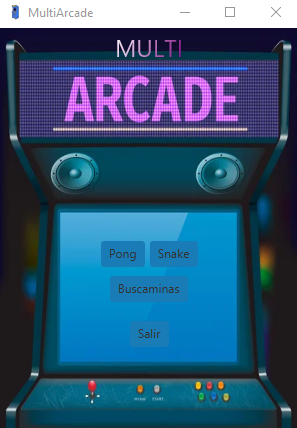
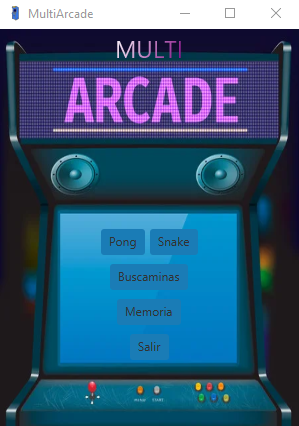
Juego Memoria Añadido
Se añade el juego memoria, con sus correspondientes ficheros y se edita el README

diff --git a/src/main/java/dad/multiarcade/memoria/controller/MemoriaController.java b/src/main/java/dad/multiarcade/memoria/controller/MemoriaController.java
@@ -1,0 +1,217 @@
+package dad.multiarcade.memoria.controller;
+
+import java.io.IOException;
+import java.net.URL;
+import java.util.ArrayList;
+import java.util.Collections;
+import java.util.ResourceBundle;
+
+import javafx.event.EventHandler;
+import javafx.fxml.FXML;
+import javafx.fxml.FXMLLoader;
+import javafx.fxml.Initializable;
+import javafx.scene.Scene;
+import javafx.scene.image.Image;
+import javafx.scene.input.KeyCode;
+import javafx.scene.input.KeyEvent;
+import javafx.scene.layout.AnchorPane;
+import javafx.stage.Stage;
+import javafx.stage.WindowEvent;
+import dad.multiarcade.memoria.model.Imagen;
+
+public class MemoriaController implements Initializable {
+
+	@FXML
+	private AnchorPane root;
+
+	private static final int WIDTH = 800;
+	private static final int HEIGHT = 800;
+	private static final int CARD_SIZE = 200;
+
+	private static final int NUM_X_CARDS = WIDTH / CARD_SIZE;
+	private static final int NUM_Y_CARDS = HEIGHT / CARD_SIZE;
+
+	private static final int NUM_CARDS = NUM_X_CARDS * NUM_Y_CARDS;
+	private static final int NUM_OF_PAIRS = NUM_CARDS / 2;
+
+	static ArrayList<Imagen> imagenes = new ArrayList<Imagen>();
+	static ArrayList<Imagen> imagenes2 = new ArrayList<Imagen>();
+
+	private static Imagen segundaImagen;
+	static int NUM_CLICKS = 2;
+	Stage stage;
+
+	public MemoriaController() throws IOException {
+		FXMLLoader loader = new FXMLLoader(getClass().getResource("/fxml/MemoriaView.fxml"));
+		loader.setController(this);
+		loader.load();
+	}
+
+	@Override
+	public void initialize(URL location, ResourceBundle resources) {
+		iniciar();
+
+		stage = new Stage();
+		stage.addEventFilter(KeyEvent.KEY_PRESSED, key -> {
+			if (key.getCode() == KeyCode.N) {
+				reset();
+			}
+		});
+		stage.setTitle("Memoria");
+		stage.setScene(new Scene(getRoot()));
+		stage.setResizable(false);
+		stage.getIcons().add(new Image("/img/memoria_logo.png"));
+		stage.setOnCloseRequest(new EventHandler<WindowEvent>() {
+			@Override
+			public void handle(WindowEvent t) {
+				reset();
+
+			}
+		});
+	}
+
+	public void shuffle() {
+
+		Collections.shuffle(imagenes);
+
+		for (int i = 0; i < imagenes.size(); i++) {
+			imagenes.get(i).setTranslateX(CARD_SIZE * (i % NUM_X_CARDS));
+			imagenes.get(i).setTranslateY(CARD_SIZE * (i / NUM_Y_CARDS));
+			root.getChildren().add(imagenes.get(i));
+		}
+
+	}
+
+	public static void ponerCartas() {
+
+		MemoriaController.getImagenes().add(new Imagen(new Image("/img/memoria/chica.png")));
+		MemoriaController.getImagenes().add(new Imagen(new Image("/img/memoria/chica.png")));
+		MemoriaController.getImagenes().add(new Imagen(new Image("/img/memoria/chico.png")));
+		MemoriaController.getImagenes().add(new Imagen(new Image("/img/memoria/chico.png")));
+		MemoriaController.getImagenes().add(new Imagen(new Image("/img/memoria/mesa.png")));
+		MemoriaController.getImagenes().add(new Imagen(new Image("/img/memoria/mesa.png")));
+		MemoriaController.getImagenes().add(new Imagen(new Image("/img/memoria/peon.png")));
+		MemoriaController.getImagenes().add(new Imagen(new Image("/img/memoria/peon.png")));
+		MemoriaController.getImagenes().add(new Imagen(new Image("/img/memoria/reina.png")));
+		MemoriaController.getImagenes().add(new Imagen(new Image("/img/memoria/reina.png")));
+		MemoriaController.getImagenes().add(new Imagen(new Image("/img/memoria/rey.png")));
+		MemoriaController.getImagenes().add(new Imagen(new Image("/img/memoria/rey.png")));
+		MemoriaController.getImagenes().add(new Imagen(new Image("/img/memoria/tablero.png")));
+		MemoriaController.getImagenes().add(new Imagen(new Image("/img/memoria/tablero.png")));
+		MemoriaController.getImagenes().add(new Imagen(new Image("/img/memoria/torre.png")));
+		MemoriaController.getImagenes().add(new Imagen(new Image("/img/memoria/torre.png")));
+
+		MemoriaController.getImagenes().get(0).setId("chica");
+		MemoriaController.getImagenes().get(1).setId("chica");
+		MemoriaController.getImagenes().get(2).setId("chico");
+		MemoriaController.getImagenes().get(3).setId("chico");
+		MemoriaController.getImagenes().get(4).setId("mesa");
+		MemoriaController.getImagenes().get(5).setId("mesa");
+		MemoriaController.getImagenes().get(6).setId("peon");
+		MemoriaController.getImagenes().get(7).setId("peon");
+		MemoriaController.getImagenes().get(8).setId("reina");
+		MemoriaController.getImagenes().get(9).setId("reina");
+		MemoriaController.getImagenes().get(10).setId("rey");
+		MemoriaController.getImagenes().get(11).setId("rey");
+		MemoriaController.getImagenes().get(12).setId("tablero");
+		MemoriaController.getImagenes().get(13).setId("tablero");
+		MemoriaController.getImagenes().get(14).setId("torre");
+		MemoriaController.getImagenes().get(15).setId("torre");
+
+	}
+
+	public void reset() {
+		MemoriaController.getImagenes().clear();
+		MemoriaController.getImagenes2().clear();
+		for (int i = 0; i < MemoriaController.getImagenes().size(); i++) {
+			MemoriaController.getImagenes().get(i).close();
+		}
+		iniciar();
+	}
+
+	public void iniciar() {
+		ponerCartas();
+		shuffle();
+	}
+
+	public void show() {
+		stage.show();
+	}
+
+	public static ArrayList<Imagen> getImagenes() {
+		return imagenes;
+	}
+
+	public static void setImagenes(ArrayList<Imagen> imagenes) {
+		MemoriaController.imagenes = imagenes;
+	}
+
+	public static ArrayList<Imagen> getImagenes2() {
+		return imagenes2;
+	}
+
+	public static void setImagenes2(ArrayList<Imagen> imagenes2) {
+		MemoriaController.imagenes2 = imagenes2;
+	}
+
+	public static Imagen getSegundaImagen() {
+		return segundaImagen;
+	}
+
+	public static void setSegundaImagen(Imagen segundaImagen) {
+		MemoriaController.segundaImagen = segundaImagen;
+	}
+
+	public static int getNUM_CLICKS() {
+		return NUM_CLICKS;
+	}
+
+	public static void setNUM_CLICKS(int nUM_CLICKS) {
+		MemoriaController.NUM_CLICKS = nUM_CLICKS;
+	}
+
+	public AnchorPane getRoot() {
+		return root;
+	}
+
+	public void setRoot(AnchorPane root) {
+		this.root = root;
+	}
+
+	public Stage getStage() {
+		return stage;
+	}
+
+	public void setStage(Stage stage) {
+		this.stage = stage;
+	}
+
+	public static int getWidth() {
+		return WIDTH;
+	}
+
+	public static int getHeight() {
+		return HEIGHT;
+	}
+
+	public static int getCardSize() {
+		return CARD_SIZE;
+	}
+
+	public static int getNumXCards() {
+		return NUM_X_CARDS;
+	}
+
+	public static int getNumYCards() {
+		return NUM_Y_CARDS;
+	}
+
+	public static int getNumCards() {
+		return NUM_CARDS;
+	}
+
+	public static int getNumOfPairs() {
+		return NUM_OF_PAIRS;
+	}
+
+}

diff --git a/src/main/java/dad/multiarcade/memoria/model/Imagen.java b/src/main/java/dad/multiarcade/memoria/model/Imagen.java
@@ -1,0 +1,85 @@
+package dad.multiarcade.memoria.model;
+
+import javafx.animation.FadeTransition;
+import javafx.scene.image.Image;
+import javafx.scene.image.ImageView;
+import javafx.scene.layout.StackPane;
+import javafx.scene.paint.Color;
+import javafx.scene.shape.Rectangle;
+import javafx.util.Duration;
+import dad.multiarcade.memoria.controller.MemoriaController;
+
+
+public class Imagen extends StackPane {
+	Image image;
+	Rectangle perimeter;
+	ImageView iv;
+	MemoriaController mc;
+
+	public Imagen(Image image) {
+		this.image = image;
+		
+		perimeter = new Rectangle(MemoriaController.getCardSize(), MemoriaController.getCardSize());
+		perimeter.setStroke(Color.GRAY);
+		perimeter.setStrokeWidth(3);
+
+		getChildren().addAll(perimeter, iv = new ImageView(image));
+
+		setOnMouseClicked(e -> {
+			if (MemoriaController.getNUM_CLICKS() == 0 || MemoriaController.getImagenes().size() == MemoriaController.getImagenes2().size() || isOpen())
+				return;
+			MemoriaController.setNUM_CLICKS(MemoriaController.getNUM_CLICKS()-1);
+
+			// 1st click
+			if (MemoriaController.getSegundaImagen() == null) {
+				MemoriaController.setSegundaImagen(this);
+				open(() -> {
+				}); // open with empty runnable (dont do anything)
+			}
+			// 2nd click
+			else {
+				open(() -> {
+					if (!hasSameInside(MemoriaController.getSegundaImagen())) {
+						MemoriaController.getSegundaImagen().close();
+						this.close();
+					} else {
+						MemoriaController.getImagenes2().add(this);
+						MemoriaController.getImagenes2().add(MemoriaController.getSegundaImagen());
+
+					}
+					MemoriaController.setSegundaImagen(null);
+					MemoriaController.setNUM_CLICKS(2);
+				});
+			}
+
+		});
+
+		close();
+	}
+
+	public boolean isOpen() {
+		return this.perimeter.getFill() == Color.MEDIUMPURPLE;
+	}
+
+	public boolean hasSameInside(Imagen secondClickedCard) {
+		return (this.getId().equals(secondClickedCard.getId()));
+	}
+
+	public void open(Runnable runnable) {
+		perimeter.setFill(Color.AQUAMARINE);
+		FadeTransition ft = new FadeTransition(Duration.seconds(0.5), iv);
+		ft.setToValue(1);
+		ft.setOnFinished(e -> runnable.run());
+		ft.play();
+	}
+
+	public void close() {
+		perimeter.setFill(Color.DEEPSKYBLUE);
+		FadeTransition ft = new FadeTransition(Duration.seconds(0.5), iv);
+		ft.setToValue(0);
+		ft.play();
+	}
+
+}
+
+

diff --git a/src/main/java/dad/multiarcade/mainapp/controller/MainController.java b/src/main/java/dad/multiarcade/mainapp/controller/MainController.java
@@ -4,8 +4,10 @@ import java.io.IOException;
 import java.net.URL;
 import java.util.ResourceBundle;
 
+import dad.buscaminas.controller.BuscaminasController;
+import dad.multiarcade.memoria.controller.MemoriaController;
+import dad.multiarcade.pong.controller.PongController;
 import dad.multiarcade.snake.controller.SnakeController;
-import dad.multiarcade.tetris.controller.TetrisController;
 import javafx.event.ActionEvent;
 import javafx.fxml.FXML;
 import javafx.fxml.FXMLLoader;
@@ -18,10 +20,15 @@ import javafx.scene.layout.VBox;
 public class MainController implements Initializable {
 
 	SnakeController sc = new SnakeController();
-	TetrisController tc = new TetrisController();
+	PongController pc=new PongController();
+	BuscaminasController bc =new BuscaminasController();
+	MemoriaController mc=new MemoriaController();
 
 	@FXML
 	private Button buscaminasButton;
+	
+	@FXML
+    private Button memoriaButton;
 
 	@FXML
 	private VBox buttonVbox;
@@ -39,7 +46,7 @@ public class MainController implements Initializable {
 	private Button snakeButton;
 
 	@FXML
-	private Button tetrisButton;
+	private Button pongButton;
 
 	public MainController() throws IOException {
 		FXMLLoader loader = new FXMLLoader(getClass().getResource("/fxml/MainView.fxml"));
@@ -58,7 +65,7 @@ public class MainController implements Initializable {
 
 	@FXML
 	void onBuscaminasAction(ActionEvent event) {
-
+		bc.show();
 	}
 
 	@FXML
@@ -67,8 +74,13 @@ public class MainController implements Initializable {
 	}
 
 	@FXML
-	void onTetrisAction(ActionEvent event) {
-		tc.show();
+	void onPongAction(ActionEvent event) {
+		pc.show();
+	}
+	
+	@FXML
+	void onMemoriaAction(ActionEvent event) {
+		mc.show();
 	}
 
 	@FXML

diff --git a/README.md b/README.md
@@ -55,6 +55,16 @@ El clásico juego de móvil, diseñado en JavaFX.
 
 W o flecha UP, ir hacia arriba. S o flecha DOWN, ir hacia abajo. A o flecha LEFT, ir hacia la izquierda. D o flecha RIGHT, ir a la derecha. N para iniciar una nueva partida.
 
+  ## Memoria
+
+Otro clásico, no de las maquinas recreativas, sino de la vida. Recreado en JavaFX utilizando imágenes como cartas
+
+<p align="center"><img src="/githubImg/memoria.png" width=""/></p>
+
+ ### Controles
+
+Tras ejecutar, click en una casilla para desvelar la carta. N para iniciar una nueva partida
+
  # Documentacion
 
 ---------------
